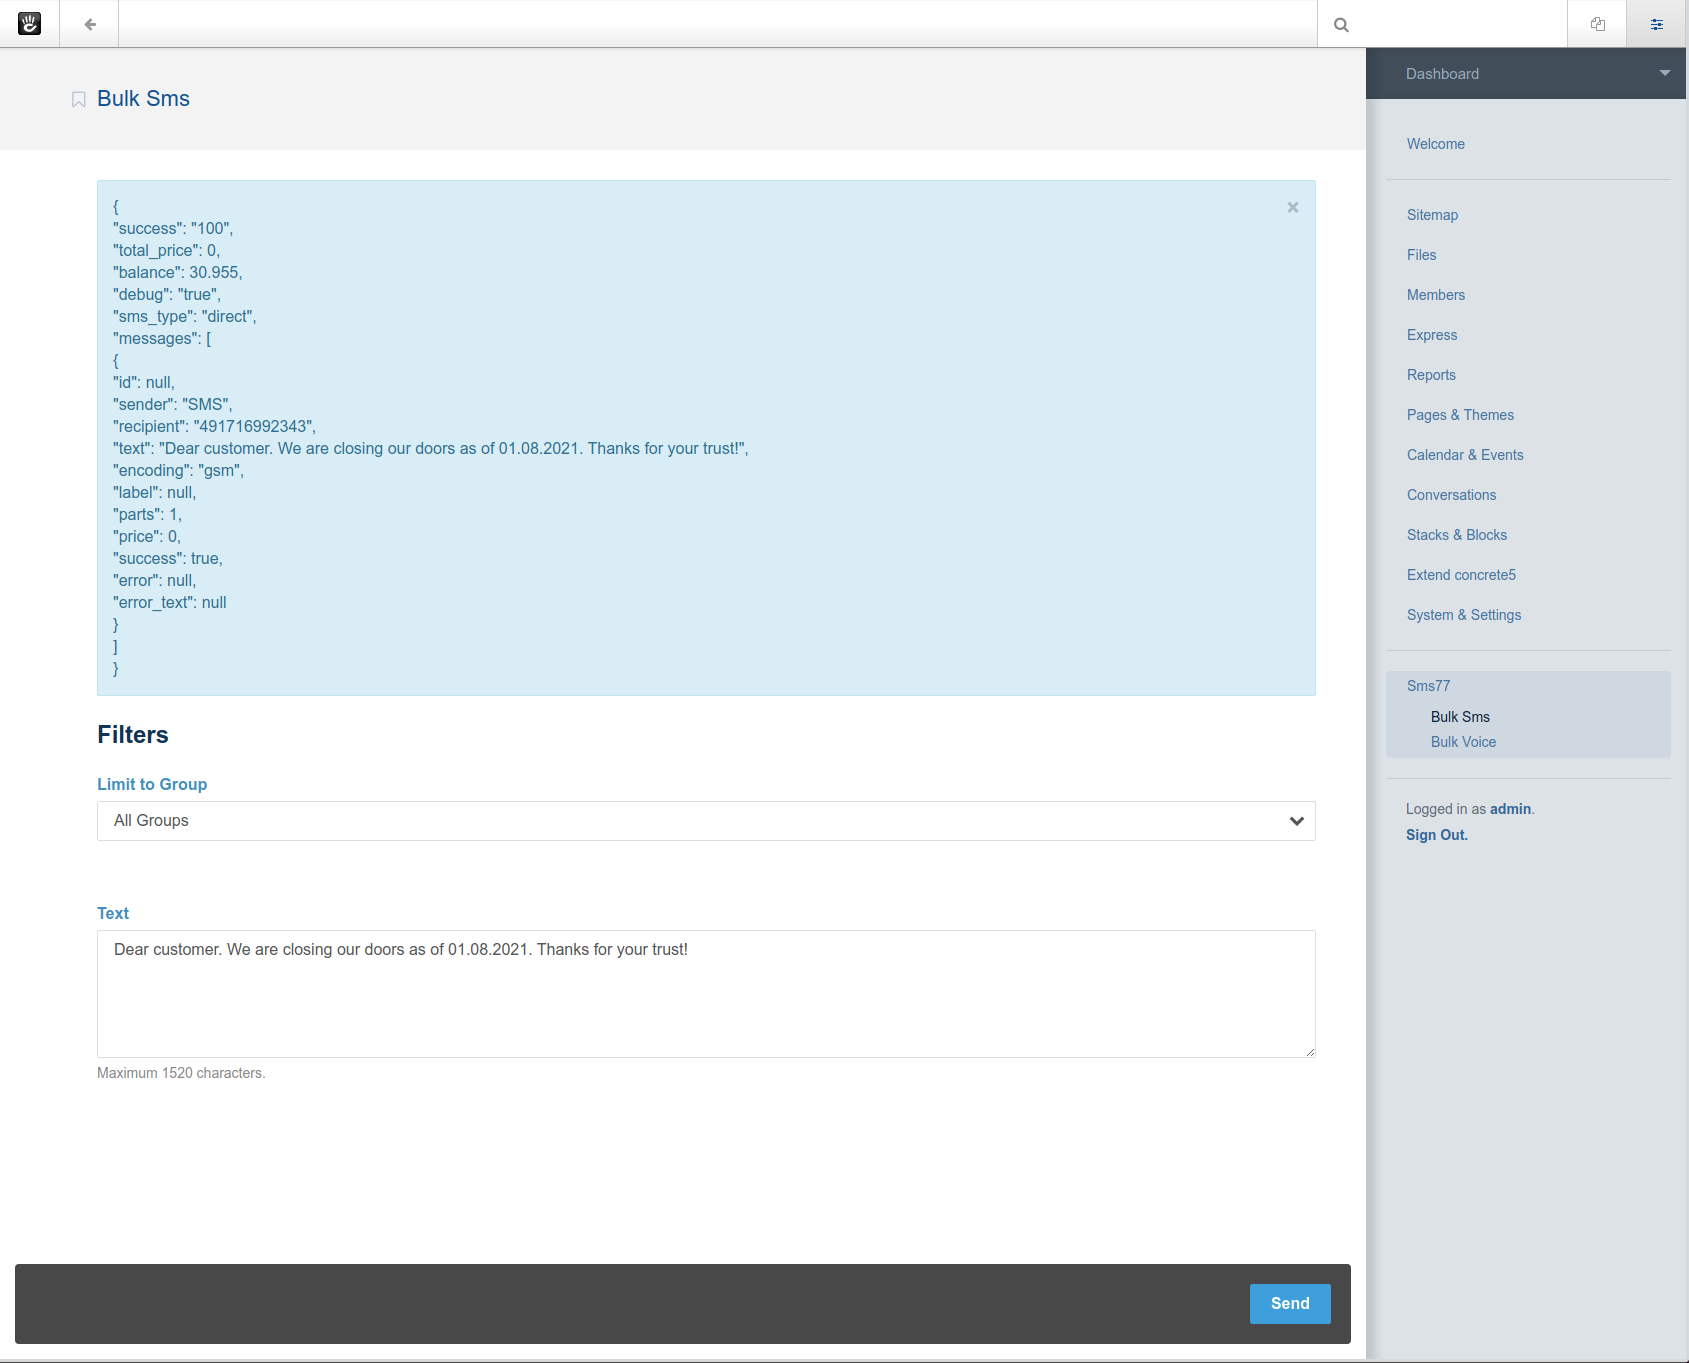
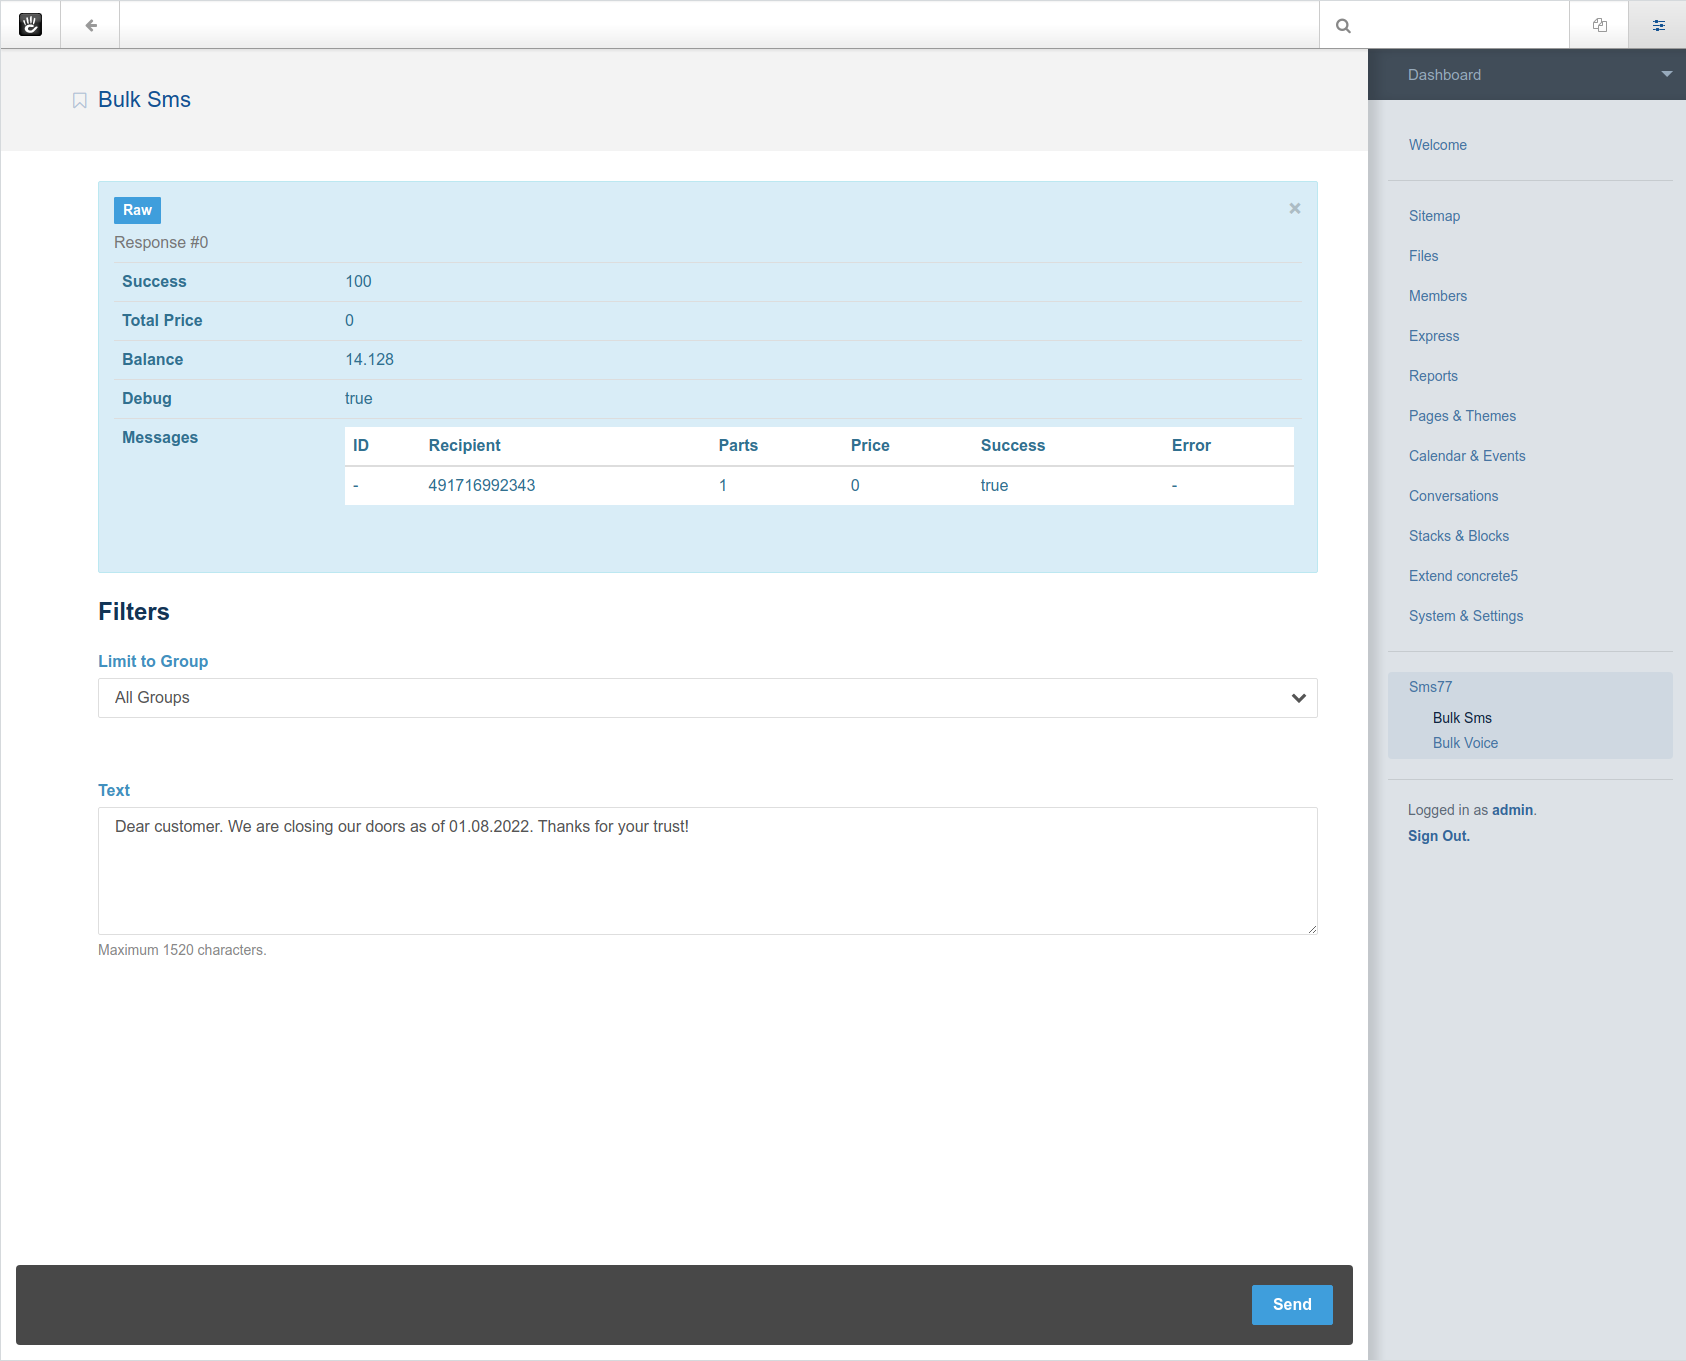
show user friendly api responses

diff --git a/single_pages/dashboard/sms77/bulk_sms.php b/single_pages/dashboard/sms77/bulk_sms.php
@@ -1,10 +1,86 @@
-<?php defined('C5_EXECUTE') or die('Access Denied.'); ?>
+<?php use Sms77\Concrete5\AbstractSinglePageDashboardController;
+
+defined('C5_EXECUTE') or die('Access Denied.'); ?>
 
 <?php if (isset($dashboardLink)): ?>
     <a href='<?= $dashboardLink ?>'>
         <?= t('Click here for navigating to the dashboard.') ?>
     </a>
 <?php else: ?>
+    <?php if (isset($apiResponses)): ?>
+        <script>
+            function sms77ToggleRawResponse() {
+                document.getElementById('sms77RawResponse').classList.toggle('hidden')
+            }
+        </script>
+
+        <div class='alert alert-info'>
+            <button onclick='sms77ToggleRawResponse()' class='btn btn-primary btn-xs'>
+                <?= t('Raw') ?></button>
+            <button type='button' class='close' data-dismiss='alert'>×</button>
+
+            <pre id='sms77RawResponse' class='hidden'>
+                <?= json_encode($apiResponses, JSON_PRETTY_PRINT) ?></pre>
+
+            <?php foreach ($apiResponses as $i => $res): ?>
+                <table class='table table-responsive'>
+                    <caption><?= t('Response') ?> #<?= $i ?></caption>
+
+                    <tr>
+                        <th><?= t('Success') ?></th>
+                        <td><?= $res->success ?></td>
+                    </tr>
+                    <tr>
+                        <th><?= t('Total Price') ?></th>
+                        <td><?= $res->total_price ?></td>
+                    </tr>
+                    <tr>
+                        <th><?= t('Balance') ?></th>
+                        <td><?= $res->balance ?></td>
+                    </tr>
+                    <tr>
+                        <th><?= t('Debug') ?></th>
+                        <td><?= $res->debug ?></td>
+                    </tr>
+                    <tr>
+                        <th><?= t('Messages') ?></th>
+                        <td>
+                            <table class='table table-responsive'>
+                                <thead>
+                                <tr>
+                                    <th><?= t('ID') ?></th>
+                                    <th><?= t('Recipient') ?></th>
+                                    <th><?= t('Parts') ?></th>
+                                    <th><?= t('Price') ?></th>
+                                    <th><?= t('Success') ?></th>
+                                    <th><?= t('Error') ?></th>
+                                </tr>
+                                </thead>
+                                <tbody>
+                                <?php foreach ($res->messages as $msg): ?>
+                                    <tr>
+                                        <td><?= AbstractSinglePageDashboardController::stringify($msg->id) ?></td>
+                                        <td><?= $msg->recipient ?></td>
+                                        <td><?= $msg->parts ?></td>
+                                        <td><?= $msg->price ?></td>
+                                        <td><?= AbstractSinglePageDashboardController::stringify($msg->success) ?></td>
+                                        <td>
+                                            <?= AbstractSinglePageDashboardController::stringify($msg->error) ?>
+                                            <?php if ($msg->error_text): ?>
+                                                &nbsp;(<?= $msg->error_text ?>)
+                                            <?php endif ?>
+                                        </td>
+                                    </tr>
+                                <?php endforeach ?>
+                                </tbody>
+                            </table>
+                        </td>
+                    </tr>
+                </table>
+            <?php endforeach ?>
+        </div>
+    <?php endif ?>
+
     <form action='<?= $view->action('submit') ?>' method='post'>
         <?= $this->controller->token->output('submit') ?>
 

diff --git a/single_pages/dashboard/sms77/bulk_voice.php b/single_pages/dashboard/sms77/bulk_voice.php
@@ -1,10 +1,84 @@
-<?php defined('C5_EXECUTE') or die('Access Denied.'); ?>
+<?php use Sms77\Concrete5\AbstractSinglePageDashboardController;
+
+defined('C5_EXECUTE') or die('Access Denied.'); ?>
 
 <?php if (isset($dashboardLink)): ?>
     <a href='<?= $dashboardLink ?>'>
         <?= t('Click here for navigating to the dashboard.') ?>
     </a>
 <?php else: ?>
+    <?php if (isset($apiResponses)): ?>
+        <script>
+            function sms77ToggleRawResponse() {
+                document.getElementById('sms77RawResponse').classList.toggle('hidden')
+            }
+        </script>
+
+        <div class='alert alert-info'>
+            <button onclick='sms77ToggleRawResponse()' class='btn btn-primary btn-xs'>
+                <?= t('Raw') ?></button>
+            <button type='button' class='close' data-dismiss='alert'>×</button>
+
+            <pre id='sms77RawResponse' class='hidden'>
+                <?= json_encode($apiResponses, JSON_PRETTY_PRINT) ?></pre>
+
+            <?php foreach ($apiResponses as $i => $res): ?>
+                <table class='table table-responsive'>
+                    <caption><?= t('Response') ?> #<?= $i ?></caption>
+
+                    <tr>
+                        <th><?= t('Success') ?></th>
+                        <td><?= $res->success ?></td>
+                    </tr>
+                    <tr>
+                        <th><?= t('Total Price') ?></th>
+                        <td><?= $res->total_price ?></td>
+                    </tr>
+                    <tr>
+                        <th><?= t('Balance') ?></th>
+                        <td><?= $res->balance ?></td>
+                    </tr>
+                    <tr>
+                        <th><?= t('Debug') ?></th>
+                        <td><?= $res->debug ?></td>
+                    </tr>
+                    <tr>
+                        <th><?= t('Messages') ?></th>
+                        <td>
+                            <table class='table table-responsive'>
+                                <thead>
+                                <tr>
+                                    <th><?= t('ID') ?></th>
+                                    <th><?= t('Recipient') ?></th>
+                                    <th><?= t('Price') ?></th>
+                                    <th><?= t('Success') ?></th>
+                                    <th><?= t('Error') ?></th>
+                                </tr>
+                                </thead>
+                                <tbody>
+                                <?php foreach ($res->messages as $msg): ?>
+                                    <tr>
+                                        <td><?= AbstractSinglePageDashboardController::stringify($msg->id) ?></td>
+                                        <td><?= $msg->recipient ?></td>
+                                        <td><?= $msg->price ?></td>
+                                        <td><?= AbstractSinglePageDashboardController::stringify($msg->success) ?></td>
+                                        <td>
+                                            <?= AbstractSinglePageDashboardController::stringify($msg->error) ?>
+                                            <?php if ($msg->error_text): ?>
+                                                &nbsp;(<?= $msg->error_text ?>)
+                                            <?php endif ?>
+                                        </td>
+                                    </tr>
+                                <?php endforeach ?>
+                                </tbody>
+                            </table>
+                        </td>
+                    </tr>
+                </table>
+            <?php endforeach ?>
+        </div>
+    <?php endif ?>
+
     <form action='<?= $view->action('submit') ?>' method='post'>
         <?= $this->controller->token->output('submit') ?>
 

diff --git a/controllers/single_page/dashboard/sms77/bulk_sms.php b/controllers/single_page/dashboard/sms77/bulk_sms.php
@@ -13,7 +13,7 @@ final class BulkSms extends AbstractMessageController {
     }
 
     protected function onSubmit(array $recipients) {
-        $this->setMessage($this->encode($this->client->sms((new SmsParams)
+        $res = $this->client->sms((new SmsParams)
             ->setDebug((bool)$this->config['debug'])
             ->setFlash((bool)$this->config['flash'])
             ->setForeignId($this->config['foreign_id'])
@@ -22,6 +22,8 @@ final class BulkSms extends AbstractMessageController {
             ->setNoReload((bool)$this->config['no_reload'])
             ->setPerformanceTracking((bool)$this->config['performance_tracking'])
             ->setText($this->getText())
-            ->setTo(implode(',', $recipients)))));
+            ->setTo(implode(',', $recipients)));
+
+        $this->setMessage($res);
     }
 }

diff --git a/src/AbstractMessageController.php b/src/AbstractMessageController.php
@@ -160,8 +160,11 @@ abstract class AbstractMessageController extends AbstractSinglePageDashboardCont
 
     /** @param string|array|null $msg */
     protected function setMessage($msg) {
-        $this->set('message', isset($msg)
-            ? is_array($msg) ? implode(PHP_EOL, $msg) : $msg
-            : t('Nothing has been sent.'));
+        if (!isset($msg)) {
+            $this->set('error', t('Nothing has been sent.'));
+            return;
+        }
+
+        $this->set('apiResponses', is_array($msg) ? $msg : [$msg]);
     }
 }

diff --git a/src/AbstractSinglePageDashboardController.php b/src/AbstractSinglePageDashboardController.php
@@ -26,6 +26,17 @@ abstract class AbstractSinglePageDashboardController extends DashboardPageContro
     }
 
     /**
+     * @param $val
+     * @return string
+     */
+    public static function stringify($val) {
+        if (true === $val) return 'true';
+        if (false === $val) return 'false';
+        if (null === $val) return '-';
+        return $val;
+    }
+
+    /**
      *
      */
     private function setConfig() {

diff --git a/controllers/single_page/dashboard/sms77/bulk_voice.php b/controllers/single_page/dashboard/sms77/bulk_voice.php
@@ -19,7 +19,7 @@ final class BulkVoice extends AbstractMessageController {
             ->setXml((bool)$this->post('xml', false));
 
         foreach ($recipients as $to) {
-            $msg[] = $this->encode($this->client->voice($params->setTo($to)));
+            $msg[] = $this->client->voice($params->setTo($to));
         }
 
         $this->setMessage($msg);

diff --git a/controller.php b/controller.php
@@ -26,7 +26,7 @@ final class Controller extends Package {
     protected $pkgHandle = 'sms77';
 
     /** @var string $pkgVersion */
-    protected $pkgVersion = '2.2.0';
+    protected $pkgVersion = '2.3.0';
 
     /** @return string */
     public function getPackageDescription() {
